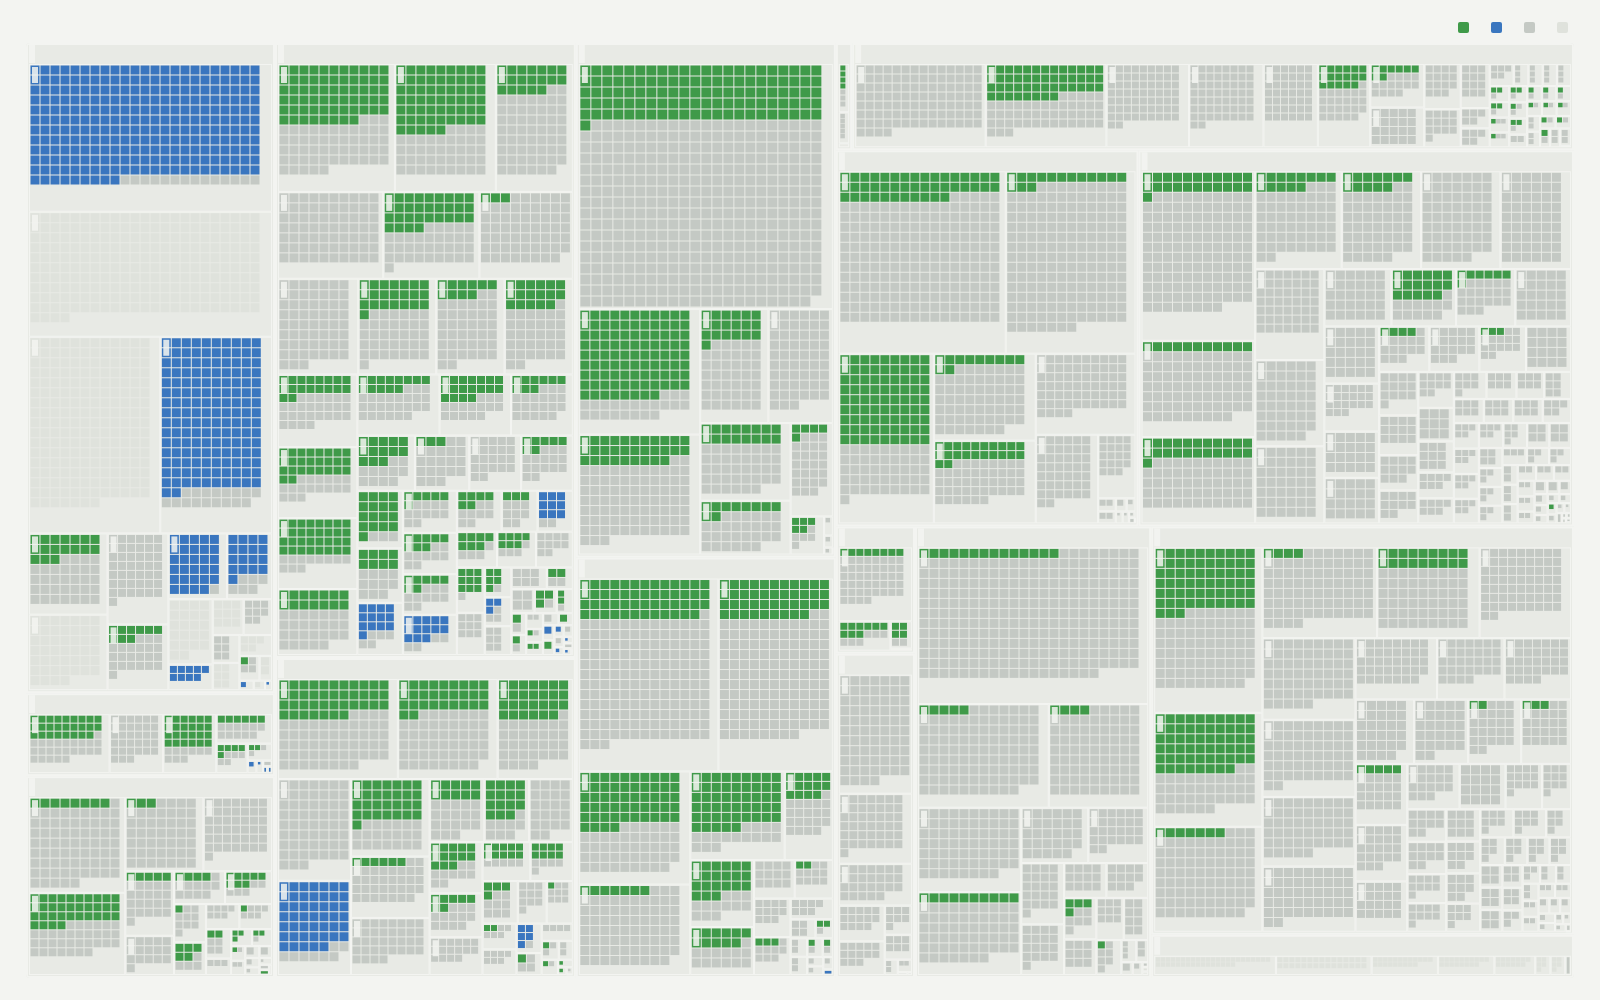
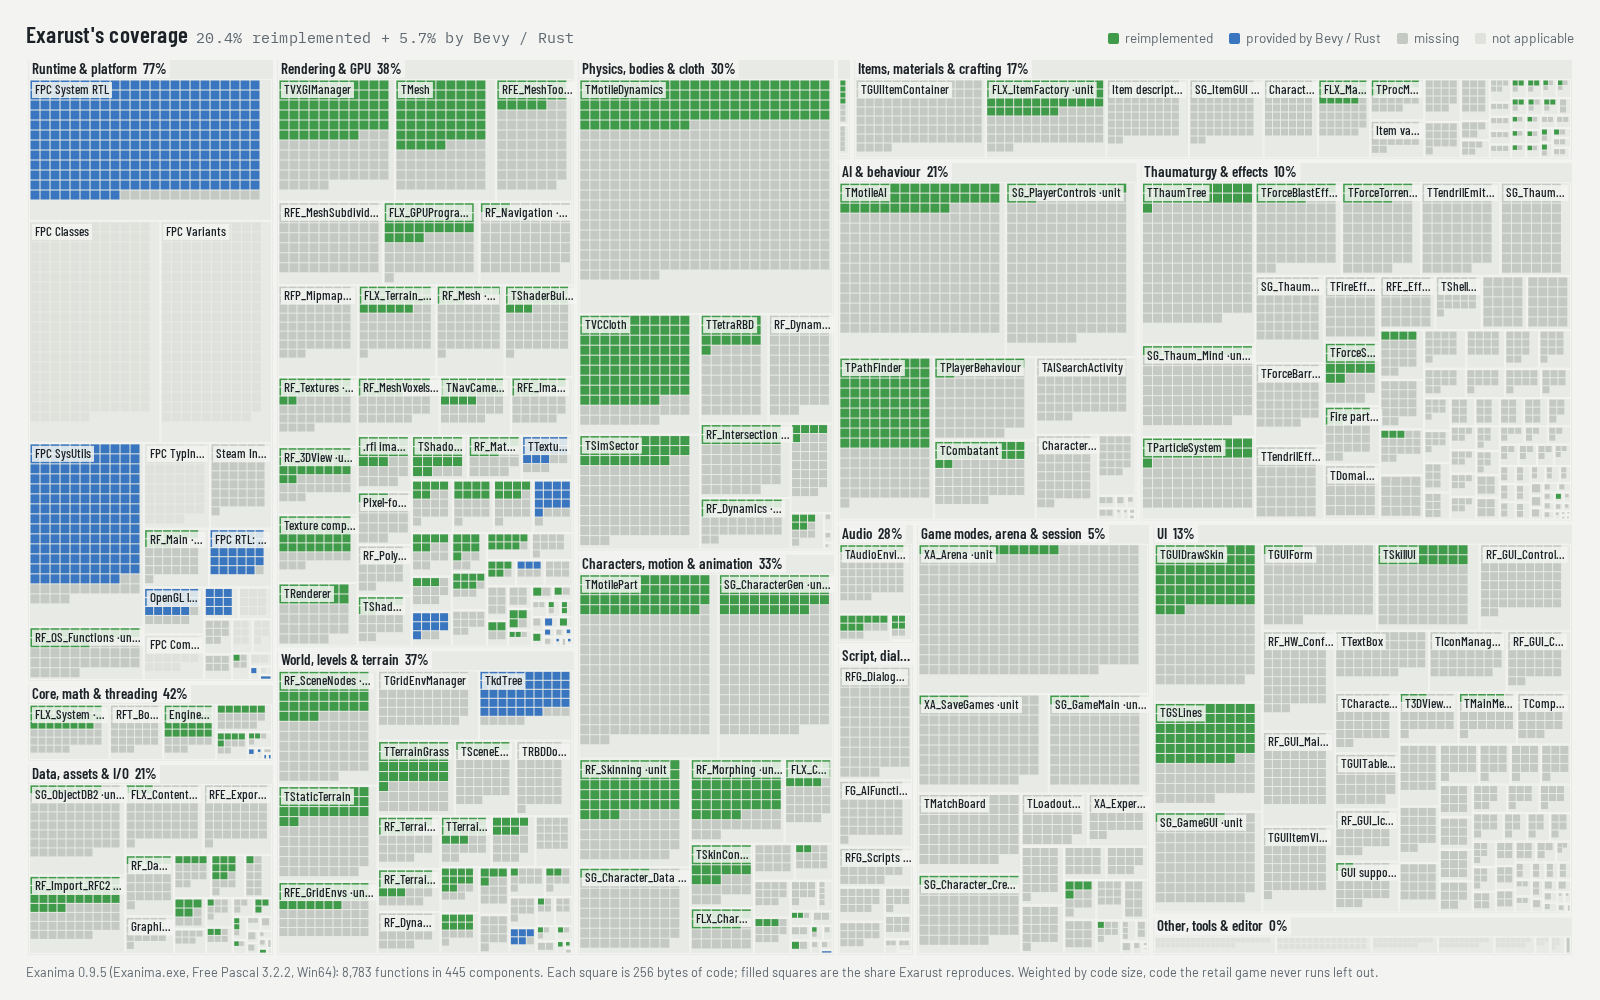
Draw the coverage map's labels again
The headless capture inherited the real HOME, so Chromium read a stale
fontconfig cache and shaped every glyph to nothing (TextRunHarfBuzz
reported an empty font). The treemap cells still drew, so the PNGs were
valid but wordless and the failure went unnoticed.

Each capture now runs with a throwaway HOME and XDG_CACHE_HOME so
fontconfig builds a clean cache in the profile, and the script refuses
output below 140 KB instead of keeping a blank image. Both themes are
regenerated from the current 20.4% data (5.7% engine-provided), and the
skill lists the failure mode so the next recalculation checks for it.

The capture script itself lives under the git-ignored context/ tree; the
images, the skill note and the history row are what this commit carries.

diff --git a/docs/reviews/coverage-history.md b/docs/reviews/coverage-history.md
@@ -1,7 +1,7 @@
 # Coverage history
 
-Every row is a generated recalculation: the artifact set in the same commit
-(`docs/COMPONENT-MAP.md` and both `docs/img/coverage-map-*.png`) matches it.
+Every row is a generated recalculation. Later rows supersede earlier ones; the
+newest row describes the page and images in the same commit.
 `dirty` means uncommitted work was rated; `HEAD moved` means the tree changed
 while the map was being built, so treat the row as a best-effort snapshot.
 
@@ -14,3 +14,4 @@ while the map was being built, so treat the row as a best-effort snapshot.
 | 2026-10-20 | d5b12f2 | clean | 19.0% | 5.7% | 16.0% | 27.3% | rerate the arena, save, creation and session components from their crate helpers |
 | 2026-10-20 | 33a91ba | clean | 19.6% | 5.7% | 16.4% | 27.3% | rerate TMotileAI and SG_PlayerControls from exa_ai and player.rs |
 | 2026-10-20 | ffccd2e | clean | 20.4% | 5.7% | 16.8% | 27.3% | rerate the tree and Force effects from thaum.rs |
+| 2026-10-20 | 1f453c3 | dirty | 20.4% | 5.7% | 16.8% | 27.3% | fix blank-text capture (clean HOME/XDG cache); rerated modes/ui |

diff --git a/.agents/skills/recalculate-coverage/SKILL.md b/.agents/skills/recalculate-coverage/SKILL.md
@@ -170,6 +170,10 @@ Artifacts: docs/COMPONENT-MAP.md + both coverage-map PNGs, regenerated together.
 - **Phantom zeros** — a section at 0% while real code and crate citations exist.
 - **Split artifacts** — page newer than images, or images rendered from a
   different data revision.
+- **Wordless images** — a stale fontconfig cache under the real `HOME` makes
+  Chromium shape zero glyphs; the PNG stays valid, so only a size check or a
+  look at the image catches it. The capture now runs with a throwaway
+  `HOME`/`XDG_CACHE_HOME` and refuses suspiciously small output.
 - **Sub-band credit** — components rated 1–4% contribute nothing by the map's
   own rule; decide between 0 and a real ≥5% rating instead of leaving a
   misleading 3%.
